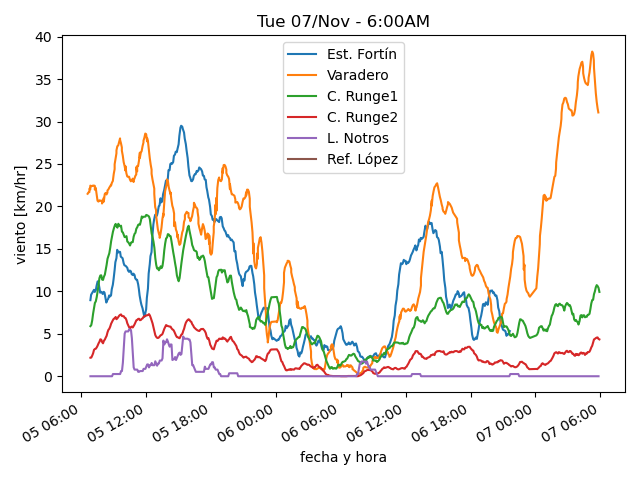
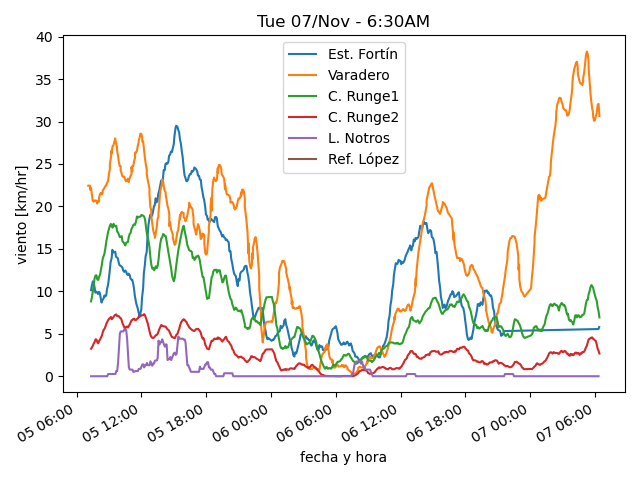
actualiza datos

diff --git a/estaciones/estacion1.html b/estaciones/estacion1.html
@@ -13,42 +13,42 @@
     </tr>
     <tr>
      <td class="stats_data">
-      Mon 06/Nov
+      Tue 07/Nov
      </td>
     </tr>
     <tr>
      <td class="stats_data">
-      9:37PM
+      6:23AM
      </td>
     </tr>
     <tr>
      <td class="stats_data">
-      8.6⁰C
+      4.3⁰C
      </td>
     </tr>
     <tr>
      <td class="stats_data">
-      6.1⁰C
+      1.1⁰C
      </td>
     </tr>
     <tr>
      <td class="stats_data">
-      84.5%
+      79.5%
      </td>
     </tr>
     <tr>
      <td class="stats_data">
-      1011.51hPa
+      1010.5hPa
      </td>
     </tr>
     <tr>
      <td class="stats_data">
-      1.4/4.8 km/hr ENE
+      1.6/5.6 km/hr S
      </td>
     </tr>
     <tr>
      <td class="stats_data">
-      0.76 / 0.0 mm
+      0.0 / 0.0 mm
      </td>
     </tr>
     <tr>
@@ -58,7 +58,7 @@
     </tr>
     <tr>
      <td class="stats_data">
-      0.0 W/m²
+      5.0 W/m²
      </td>
     </tr>
    </tbody>

diff --git a/estaciones/estacion2.html b/estaciones/estacion2.html
@@ -18,7 +18,7 @@
     </tr>
     <tr>
      <td class="stats_data">
-      5:48AM
+      6:24AM
      </td>
     </tr>
     <tr>
@@ -28,22 +28,22 @@
     </tr>
     <tr>
      <td class="stats_data">
-      5.2⁰C
+      3.9⁰C
      </td>
     </tr>
     <tr>
      <td class="stats_data">
-      87.0%
+      79.5%
      </td>
     </tr>
     <tr>
      <td class="stats_data">
-      1012.53hPa
+      1012.87hPa
      </td>
     </tr>
     <tr>
      <td class="stats_data">
-      29.9/33.8 km/hr WNW
+      10.1/14.3 km/hr WNW
      </td>
     </tr>
     <tr>
@@ -58,7 +58,7 @@
     </tr>
     <tr>
      <td class="stats_data">
-      0.0 W/m²
+      2.9 W/m²
      </td>
     </tr>
    </tbody>

diff --git a/estaciones/estacion3.html b/estaciones/estacion3.html
@@ -18,12 +18,12 @@
     </tr>
     <tr>
      <td class="stats_data">
-      5:54AM
+      6:24AM
      </td>
     </tr>
     <tr>
      <td class="stats_data">
-      4.8⁰C
+      4.4⁰C
      </td>
     </tr>
     <tr>
@@ -33,17 +33,17 @@
     </tr>
     <tr>
      <td class="stats_data">
-      90.0%
+      92.5%
      </td>
     </tr>
     <tr>
      <td class="stats_data">
-      1001.93hPa
+      1002.34hPa
      </td>
     </tr>
     <tr>
      <td class="stats_data">
-      4.2/5.9 km/hr W
+      3.0/3.9 km/hr SSW
      </td>
     </tr>
     <tr>
@@ -58,7 +58,7 @@
     </tr>
     <tr>
      <td class="stats_data">
-      0.0 W/m²
+      2.6 W/m²
      </td>
     </tr>
    </tbody>

diff --git a/estaciones/estacion4.html b/estaciones/estacion4.html
@@ -18,12 +18,12 @@
     </tr>
     <tr>
      <td class="stats_data">
-      5:54AM
+      6:24AM
      </td>
     </tr>
     <tr>
      <td class="stats_data">
-      4.6⁰C
+      4.2⁰C
      </td>
     </tr>
     <tr>
@@ -33,17 +33,17 @@
     </tr>
     <tr>
      <td class="stats_data">
-      87.3%
+      89.8%
      </td>
     </tr>
     <tr>
      <td class="stats_data">
-      1010.74hPa
+      1010.94hPa
      </td>
     </tr>
     <tr>
      <td class="stats_data">
-      1.8/3.2 km/hr SW
+      0.3/0.8 km/hr SW
      </td>
     </tr>
     <tr>
@@ -58,7 +58,7 @@
     </tr>
     <tr>
      <td class="stats_data">
-      0.0 W/m²
+      2.6 W/m²
      </td>
     </tr>
    </tbody>

diff --git a/estaciones/estacion5.html b/estaciones/estacion5.html
@@ -18,27 +18,27 @@
     </tr>
     <tr>
      <td class="stats_data">
-      5:50AM
+      6:20AM
      </td>
     </tr>
     <tr>
      <td class="stats_data">
-      4.4⁰C
+      4.1⁰C
      </td>
     </tr>
     <tr>
      <td class="stats_data">
-      2.9⁰C
+      2.8⁰C
      </td>
     </tr>
     <tr>
      <td class="stats_data">
-      90.0%
+      91.0%
      </td>
     </tr>
     <tr>
      <td class="stats_data">
-      1014.09hPa
+      1014.29hPa
      </td>
     </tr>
     <tr>
